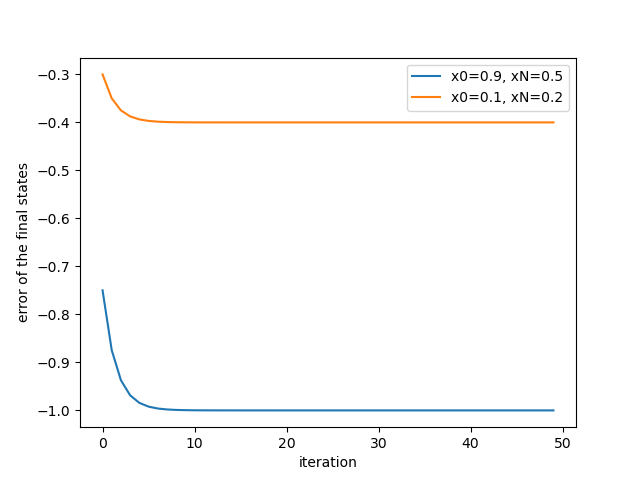
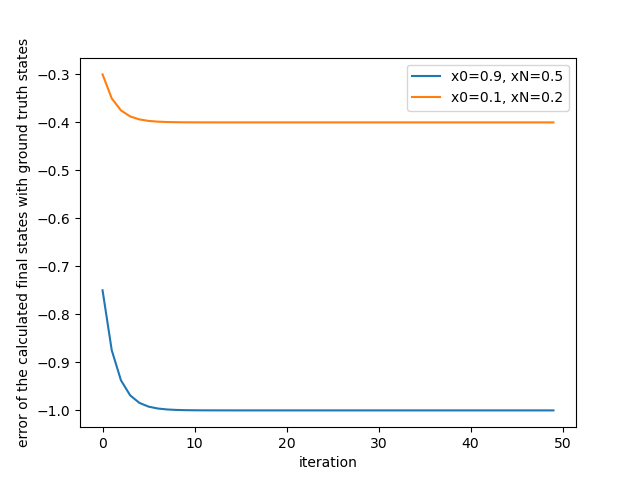
added a full_cost function

Changed region(s): [[0.0312, 0.0938, 0.0625, 0.9375]]

diff --git a/main.py b/main.py
@@ -78,7 +78,6 @@ class System:
 
             self.inputs[i] = self.inputs[i] + (k + K * self.delta_states[i])
 
-
     # Auxiliaries
     def summary(self):
         self.sum_count += 1
@@ -90,7 +89,13 @@ class System:
 
     def error(self):
         return self.states[-1] - self.state_dest
-            
+    
+    def full_cost(self, loss):
+        sum = 0
+        for i in range(self.horizon-1):
+            sum += loss(self.states[i], self.inputs[i])
+        sum += loss(self.states[-1], 0)
+        return sum
         
 
 def loss(x, u):
@@ -105,6 +110,8 @@ if __name__ == "__main__":
     sys3 = System(loss, 10, system, 0.1, 0.2)
     errors2 = []
     errors3 = []
+    cost2 = []
+    cost3 = []
     for i in range(50):
         sys2.backward()
         sys3.backward()
@@ -112,9 +119,17 @@ if __name__ == "__main__":
         sys3.forward()
         errors2.append(sys2.error())
         errors3.append(sys3.error())
+        cost2.append(sys2.full_cost(loss))
+        cost3.append(sys3.full_cost(loss))
     plt.plot(errors2, label='x0=0.9, xN=0.5')
     plt.plot(errors3, label='x0=0.1, xN=0.2')
-    plt.ylabel('error of the final states')
+    plt.ylabel('error of the calculated final states with ground truth states')
+    plt.xlabel('iteration')
+    plt.legend()
+    plt.show()
+    plt.plot(cost2, label='x0=0.9, xN=0.5')
+    plt.plot(cost3, label='x0=0.1, xN=0.2')
+    plt.ylabel('full cost')
     plt.xlabel('iteration')
     plt.legend()
     plt.show()

diff --git a/pseudo.tex b/pseudo.tex
@@ -54,7 +54,7 @@
 \State $\epsilon_f^{\langle i \rangle} \leftarrow x_N - x_N^{\langle i+1 \rangle}$
 \State $x_N^{\langle i+1 \rangle} \leftarrow x_N$
 
-\If {$\epsilon_f^{\langle i \rangle}$ is smaller than the threshold}
+\If {the amount of change of $\epsilon_f^{\langle i \rangle}$ (or the cost $J$) is smaller than the threshold}
 escape the loop
 \EndIf
 \EndFor

diff --git a/readme.md b/readme.md
@@ -6,6 +6,7 @@ Only 1-dimensional states and inputs for now.
 ![pseudocode](./pcode.png)
 ## Gallery
 ![Errors](./Figure_1.png)
+![Costs](./Figure_2.png)
 ## References
 [Constrained Differential Dynamic Programming Revisited](https://arxiv.org/abs/2005.00985)
 
